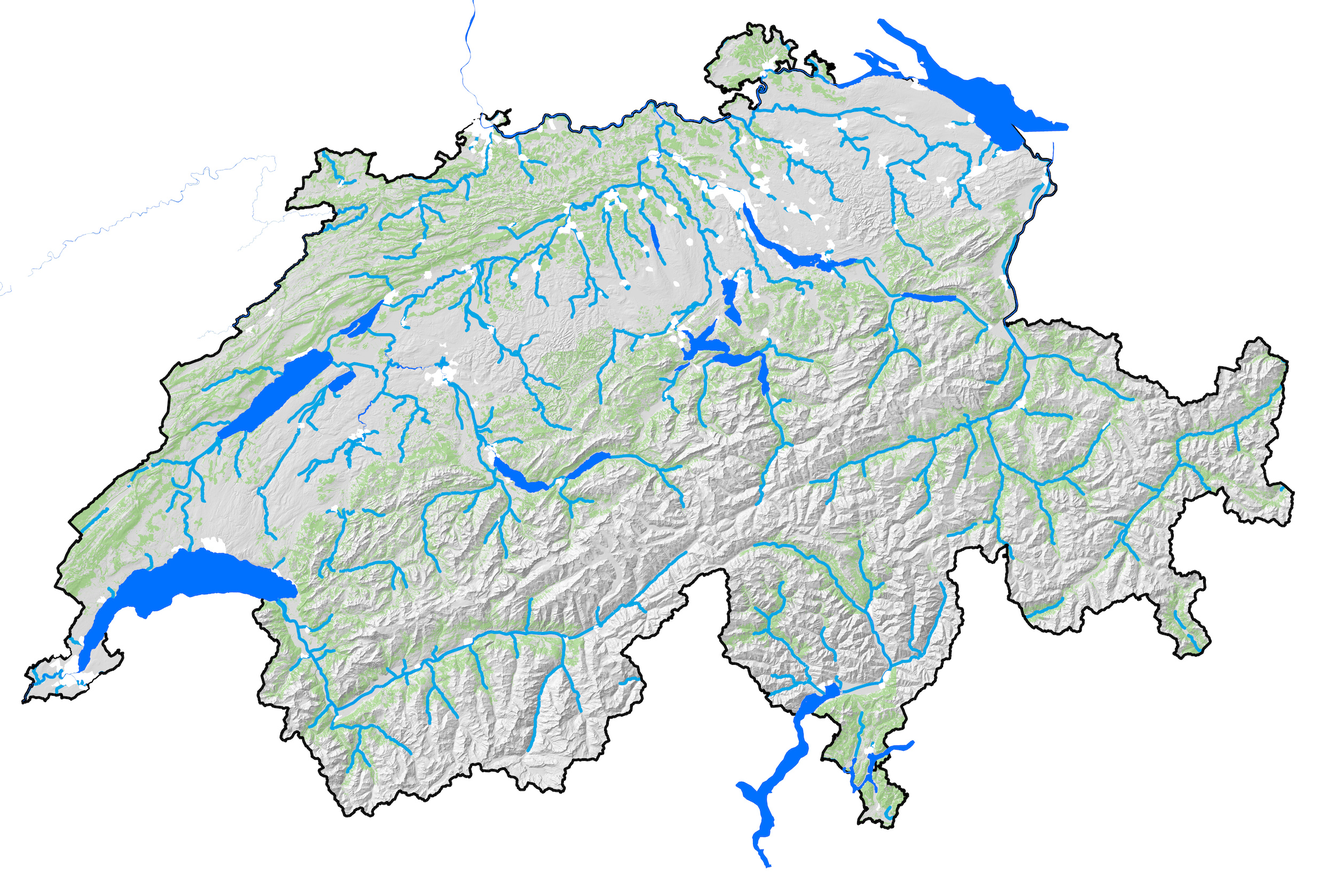
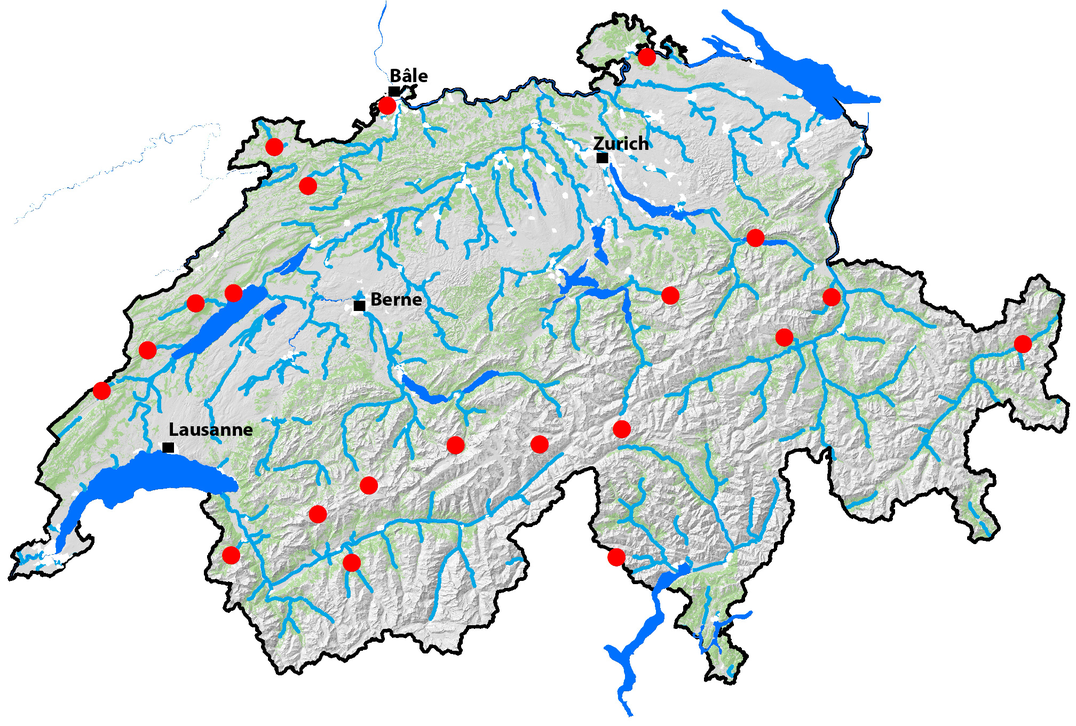
Add the clickable switzerland map to homepage

diff --git a/pages/index.vue b/pages/index.vue
@@ -5,7 +5,20 @@
         <p v-for="(description, index) in $t('home.text')" :key="index">{{ description }}</p>
       </div>
 
-      <img src="/img/swiss_map.jpg" style="width: 100%;" />
+      <img src="/img/swiss_map.jpg" style="width: 100%;" usemap="#swissmap" />
+
+      <!-- https://www.image-map.net -->
+      <map name="swissmap">
+        <area
+          v-for="(excursion, index) in excursions"
+          :key="index"
+          shape="circle"
+          :coords="`${excursion.source.position.x}, ${excursion.source.position.y}, ${excursion.source.position.r}`"
+          alt="Computer"
+          href="#"
+          @click.prevent="interactivePoint(index + 1)"
+        />
+      </map>
 
       <!-- excursion selection -->
       <h2 style="margin-bottom: 30px; margin-top: 30px;" class="text-center">
@@ -42,6 +55,8 @@
 </template>
 
 <script>
+import ImageMap from 'image-map'
+
 import excursionData from '~/assets/script.js'
 
 export default {
@@ -53,6 +68,20 @@ export default {
   },
   mounted() {
     this.excursions = excursionData.getExcursions()
+
+    setTimeout(() => {
+      ImageMap('img[usemap]')
+    }, 1000)
+  },
+  methods: {
+    interactivePoint(index) {
+      // window.alert('pressé :' + index)
+      // this.activeInterestPoint = index
+
+      // this.$bvModal.show('modal-interest-' + index)
+
+      this.$router.push(`/excursions/${index}`)
+    }
   }
 }
 </script>

diff --git a/locales/fr/excursion-17.js b/locales/fr/excursion-17.js
@@ -8,6 +8,11 @@ export default {
   },
   source: {
     coordinates: [2558500, 1117500],
+    position: {
+      x: 435,
+      y: 1040,
+      r: 65
+    },
     name: 'Source thermale du Val d’Illiez',
     canton: 'VS'
   },

diff --git a/locales/fr/excursion-4.js b/locales/fr/excursion-4.js
@@ -8,6 +8,11 @@ export default {
   },
   source: {
     coordinates: [2687000, 1159000],
+    position: {
+      x: 1167,
+      y: 803,
+      r: 72
+    },
     name: 'Gothard, Chemin des quatre sources',
     canton: ''
   },

diff --git a/locales/fr/excursion-10.js b/locales/fr/excursion-10.js
@@ -8,6 +8,11 @@ export default {
   },
   source: {
     coordinates: [2546800, 1200500],
+    position: {
+      x: 367,
+      y: 568,
+      r: 38
+    },
     name: 'Sources des gorges de l’Areuse',
     canton: 'NE'
   },

diff --git a/locales/fr/excursion-15.js b/locales/fr/excursion-15.js
@@ -8,6 +8,11 @@ export default {
   },
   source: {
     coordinates: [2756000, 1202500],
+    position: {
+      x: 1560,
+      y: 556,
+      r: 55
+    },
     name: 'Source thermale de Bad Pfäfers',
     canton: 'SG'
   },

diff --git a/locales/fr/excursion-19.js b/locales/fr/excursion-19.js
@@ -8,6 +8,11 @@ export default {
   },
   source: {
     coordinates: [2531000, 1185000],
+    position: {
+      x: 278,
+      y: 656,
+      r: 50
+    },
     name: 'Sources des gorges de Covatannaz',
     canton: 'VD'
   },

diff --git a/locales/fr/excursion-template.js b/locales/fr/excursion-template.js
@@ -7,7 +7,12 @@ export default {
     download_file: 'xxx'
   },
   source: {
-    coordinates: [],
+    coordinates: [0, 0],
+    position: {
+      x: 0,
+      y: 0,
+      r: 0
+    },
     name: 'xxx',
     canton: ''
   },

diff --git a/locales/fr/excursion-14.js b/locales/fr/excursion-14.js
@@ -8,6 +8,11 @@ export default {
   },
   source: {
     coordinates: [2731000, 1222000],
+    position: {
+      x: 1416,
+      y: 447,
+      r: 76
+    },
     name: 'Rinquelle & Seerenbachfälle',
     canton: 'SG'
   },

diff --git a/locales/fr/excursion-18.js b/locales/fr/excursion-18.js
@@ -8,6 +8,11 @@ export default {
   },
   source: {
     coordinates: [2598200, 1115000],
+    position: {
+      x: 659,
+      y: 1053,
+      r: 55
+    },
     name: 'Sources chaudes de Combioule',
     canton: 'VS'
   },

diff --git a/locales/fr/excursion-6.js b/locales/fr/excursion-6.js
@@ -8,6 +8,11 @@ export default {
   },
   source: {
     coordinates: [2819000, 1187000],
+    position: {
+      x: 1916,
+      y: 645,
+      r: 90
+    },
     name: 'Sources minérales de Scuol',
     canton: 'GR'
   },

diff --git a/locales/fr/excursion-12.js b/locales/fr/excursion-12.js
@@ -8,6 +8,11 @@ export default {
   },
   source: {
     coordinates: [2695300, 1281500],
+    position: {
+      x: 1213,
+      y: 107,
+      r: 82
+    },
     name: 'Quellpark Kundelfingerhof',
     canton: 'TG'
   },

diff --git a/locales/fr/excursion-11.js b/locales/fr/excursion-11.js
@@ -8,6 +8,11 @@ export default {
   },
   source: {
     coordinates: [2559300, 1203800],
+    position: {
+      x: 438,
+      y: 549,
+      r: 32
+    },
     name: 'Source de la Serrières',
     canton: 'NE'
   },
